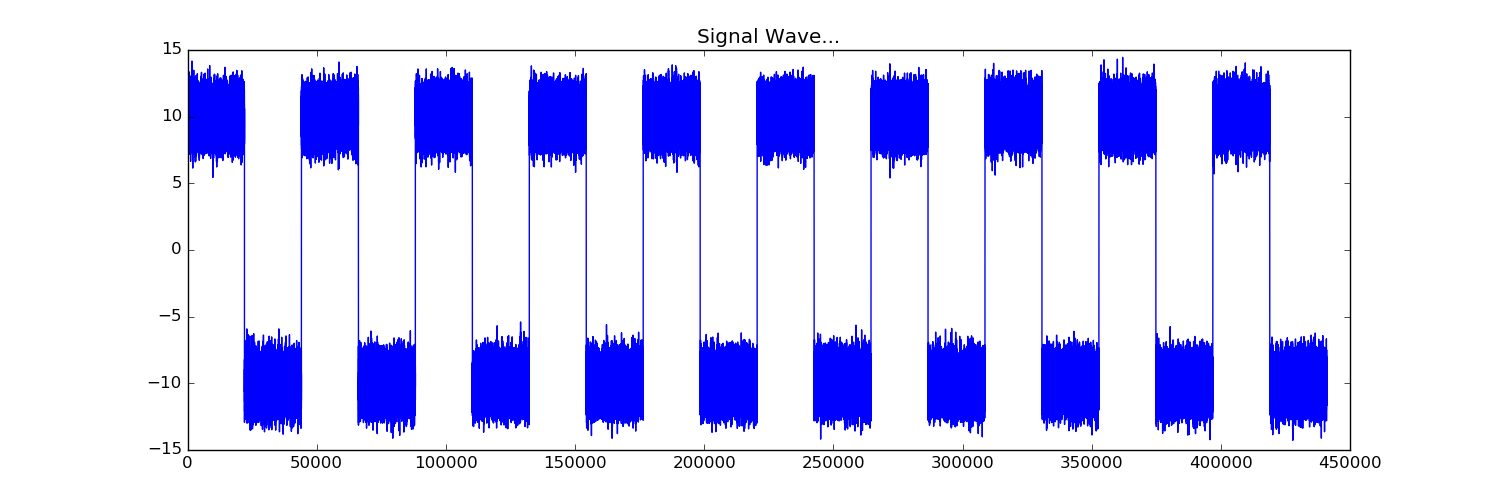
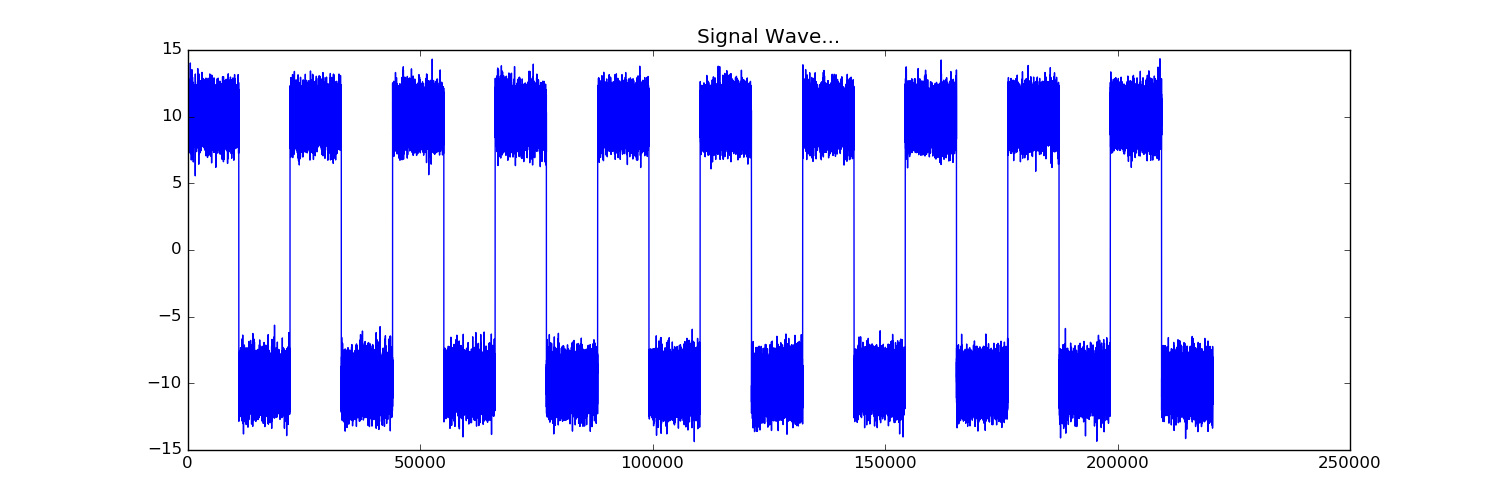
checking why sigma got nan

diff --git a/model/model.py b/model/model.py
@@ -11,14 +11,14 @@ import laplacian
 import RecurrenceMatrix as RM
 import gradient
 
-mu, sigma, length = 10, 1, 22050 # mean and standard deviation
+mu, sigma, length = 10, 1, 22050/2 # mean, standard deviation, and sampling rate
 
 signal = []
 for i in xrange(20):
-    if i%2==0:
-        signal += list(np.random.normal(mu, sigma, length))
-    else:
-        signal += list(np.random.normal(-mu, sigma, length))
+  if i%2==0:
+    signal += list(np.random.normal(mu, sigma, length))
+  else:
+    signal += list(np.random.normal(-mu, sigma, length))
 
 
 signal = np.array(signal)
@@ -46,8 +46,8 @@ allInterval = []
 
 #Create interval base on the signal we created
 for i in xrange(20):
-    allInterval += [[np.array([22050*i+transitDelta, 22050*(i+1)-transitDelta]).astype(float), term[i%2]]]
-    allInterval += [[np.array([22050*(i+1)-transitDelta, 22050*(i+1)+transitDelta]).astype(float), term2[i%2]]]
+  allInterval += [[np.array([length*i+transitDelta, length*(i+1)-transitDelta]).astype(float), term[i%2]]]
+  allInterval += [[np.array([length*(i+1)-transitDelta, length*(i+1)+transitDelta]).astype(float), term2[i%2]]]
 allInterval.pop()
 
 #Convert interval from time to frame
@@ -57,23 +57,76 @@ allInterval = [[np.apply_along_axis(t2f, 0, elm[0]/22050), elm[1]] for elm in al
 print allInterval
 
 m_true = RM.label2RecurrenceMatrix("../data/2.jams", gm.shape[0], allInterval)
-
+print "m_true is symmetruc: ", (m_true==m_true.T).all()
 ############################################################
 L = scipy.sparse.csgraph.laplacian(gm, normed=True)
 L_true = scipy.sparse.csgraph.laplacian(m_true, normed=True)
+
+print "L diag all 1: ", all([L[i,i] == 1 for i in xrange(L.shape[0])])
+print "L_true diag all 1: ", all([L_true[i,i] == 1 for i in xrange(L_true.shape[0])])
+
 err = 0.5 * np.linalg.norm(L_true-L)**2
 epco, alpha, res = 5, 0.1, []
-
+print "hi"
 res += [err]
+
+filename = "./fig/L_orignalAll.png"
+plt.figure(figsize=(15, 5))
+plt.subplot(2, 2, 1)
+plt.pcolor(L_true, cmap="viridis")
+plt.colorbar()
+plt.title('L_true')
+
+plt.subplot(2, 2, 2)
+plt.pcolor(L, cmap="viridis")
+plt.colorbar()
+plt.title('L')
+
+plt.subplot(2, 2, 3)
+plt.pcolor(m_true, cmap="viridis")
+plt.colorbar()
+plt.title('m_true')
+
+plt.subplot(2, 2, 4)
+plt.pcolor(gm, cmap="viridis")
+plt.colorbar()
+plt.title('m')
+plt.savefig(filename)
+
 for i in xrange(epco):
   accu = gradient.allDLoss(sigmas, L, L_true, cqt)
   sigmas = sigmas - alpha * accu
 
-  filename = "./sigmas/sigmas_" + i + ".npy"
+  filename = "./sigmas/sigmas_" + str(i) + ".npy"
+  print "saving sigmas to: ", filename
   np.save(filename, sigmas)
 
   gm = RM.feature2GaussianMatrix(cqt, sigmas)
   L = scipy.sparse.csgraph.laplacian(gm, normed=True)
+
+  filename = "./fig/allL_" + str(i) + ".png"
+  plt.figure(figsize=(15, 5))
+  plt.subplot(2, 2, 1)
+  plt.pcolor(L_true, cmap="viridis")
+  plt.colorbar()
+  plt.title('L_true')
+
+  plt.subplot(2, 2, 2)
+  plt.pcolor(L, cmap="viridis")
+  plt.colorbar()
+  plt.title('L')
+
+  plt.subplot(2, 2, 3)
+  plt.pcolor(m_true, cmap="viridis")
+  plt.colorbar()
+  plt.title('m_true')
+
+  plt.subplot(2, 2, 4)
+  plt.pcolor(gm, cmap="viridis")
+  plt.colorbar()
+  plt.title('m')
+  plt.savefig(filename)
+
   err = 0.5 * np.linalg.norm(L_true-L)**2
   res += [err]
 print res

diff --git a/model/sigmasTest.py b/model/sigmasTest.py
@@ -1,0 +1,5 @@
+import numpy as np
+import sys, scipy, os
+
+sigmas = np.load('./sigmas/sigmas_0.npy')
+print sigmas
